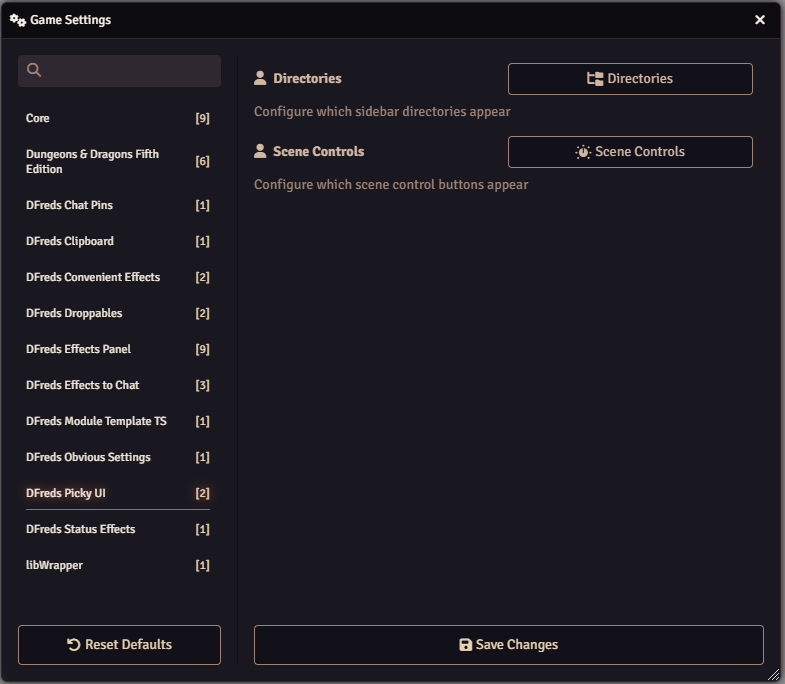
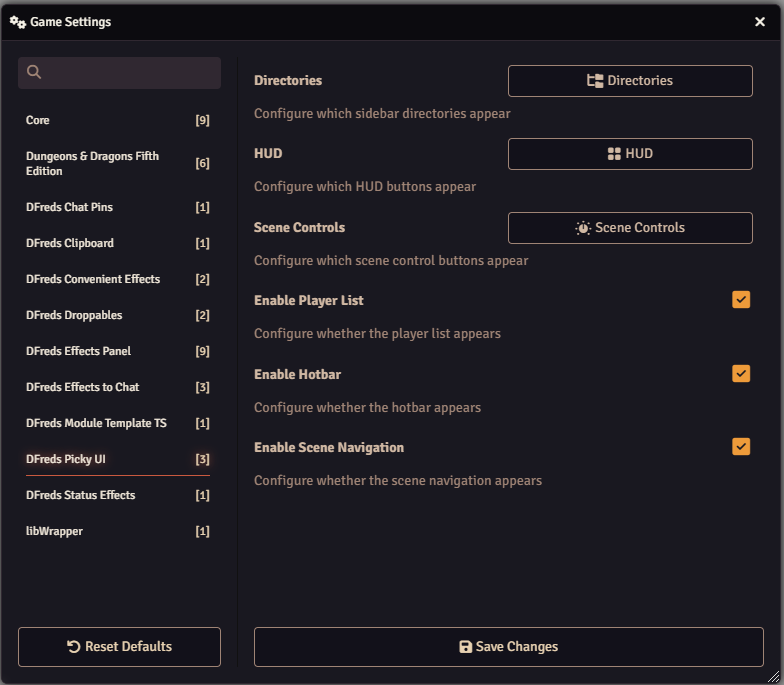
Update picky UI to include HUD config

diff --git a/docs/premium-modules/picky-ui/index.md b/docs/premium-modules/picky-ui/index.md
@@ -30,16 +30,23 @@ the elements you need.
 
 ## Features
 
-- Toggle individual sidebar directories on/off through configuration menu
-- Toggle individual scene controls on/off through configuration menu
+- Toggle on and off any HUD elements on tokens, tiles, or drawings
+  - Seamlessly works with other modules that add new controls, including those using [Lib: DFreds UI Extender](https://foundryvtt.com/packages/lib-dfreds-ui-extender)
+- Toggle on and off any sidebar directories (except Settings)
+- Toggle on and off any scene controls 
   - Automatically hides entire sections when all contained tools are disabled
   - Seamlessly works with other modules that add new controls, including those using [Lib: DFreds UI Extender](https://foundryvtt.com/packages/lib-dfreds-ui-extender)
+- Toggle on and off the player list, hotbar, or scene navigation
 
 ## Configuration
 
 Settings are provided to configure the module.
 
 ![Settings](./img/settings.png)
+
+Configure the HUD on tokens, tiles, and drawings:
+
+![Directories Config](./img/hud-config.png)
 
 Configure the sidebar directories:
 
